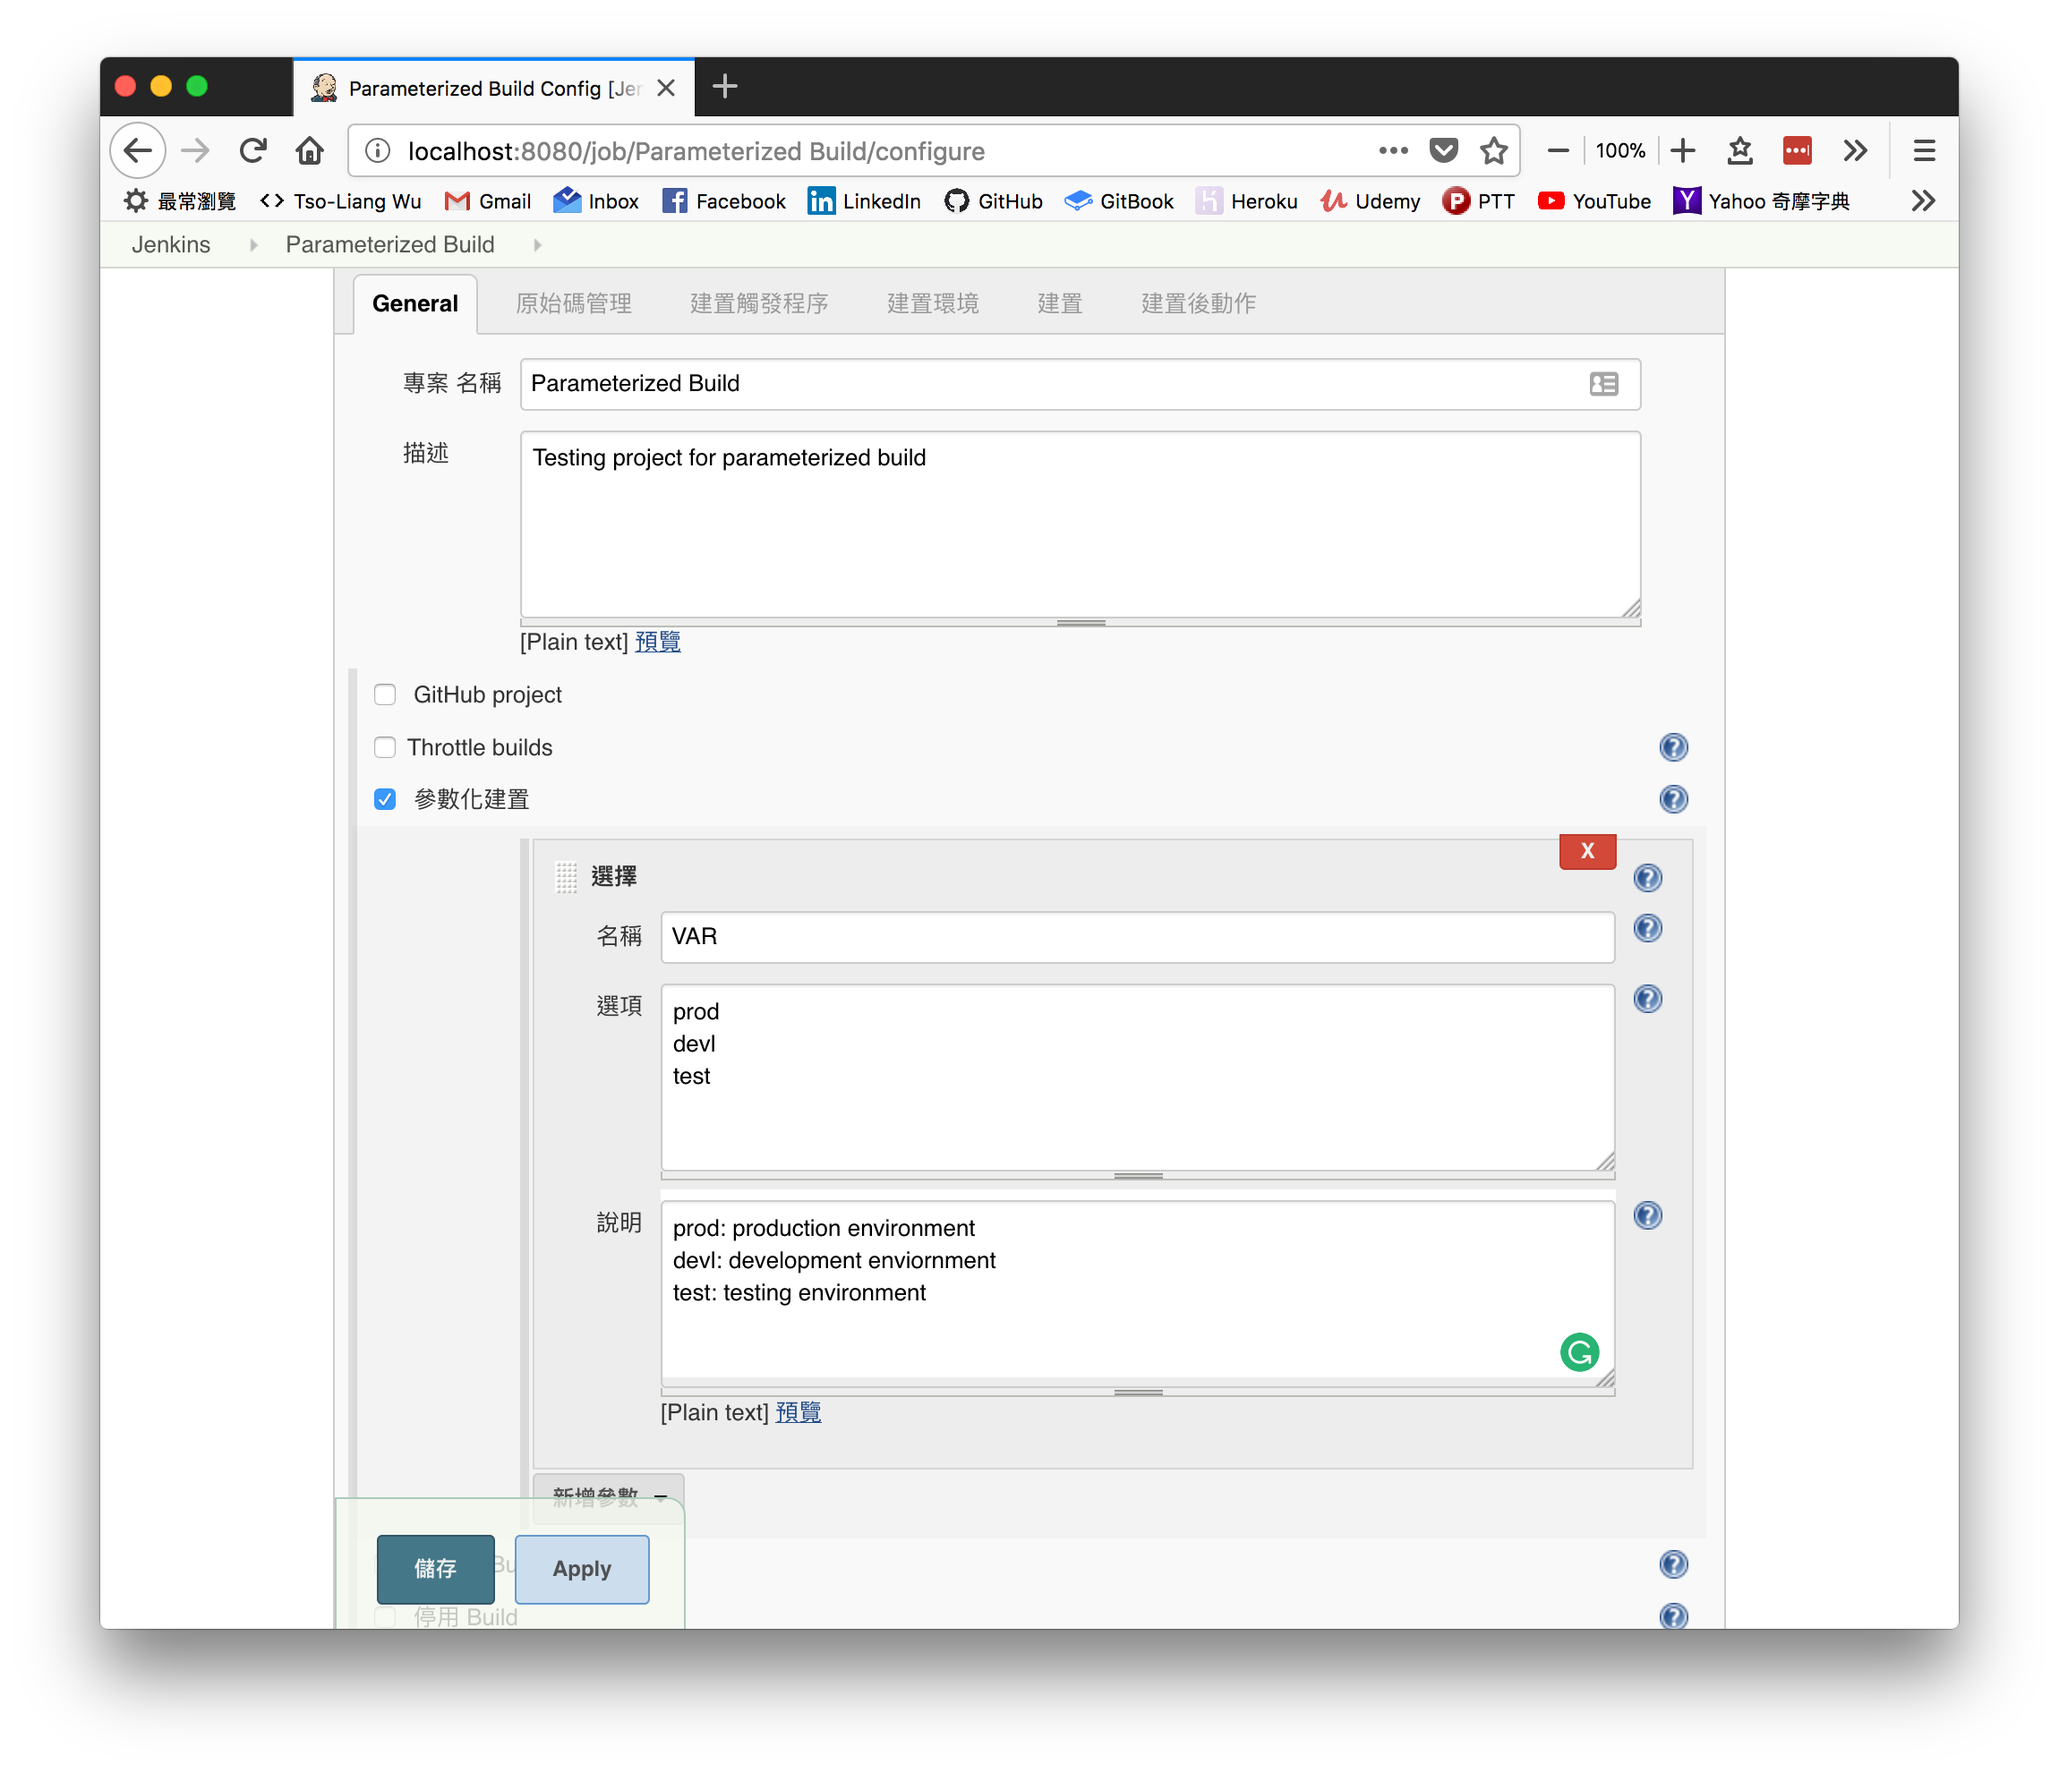
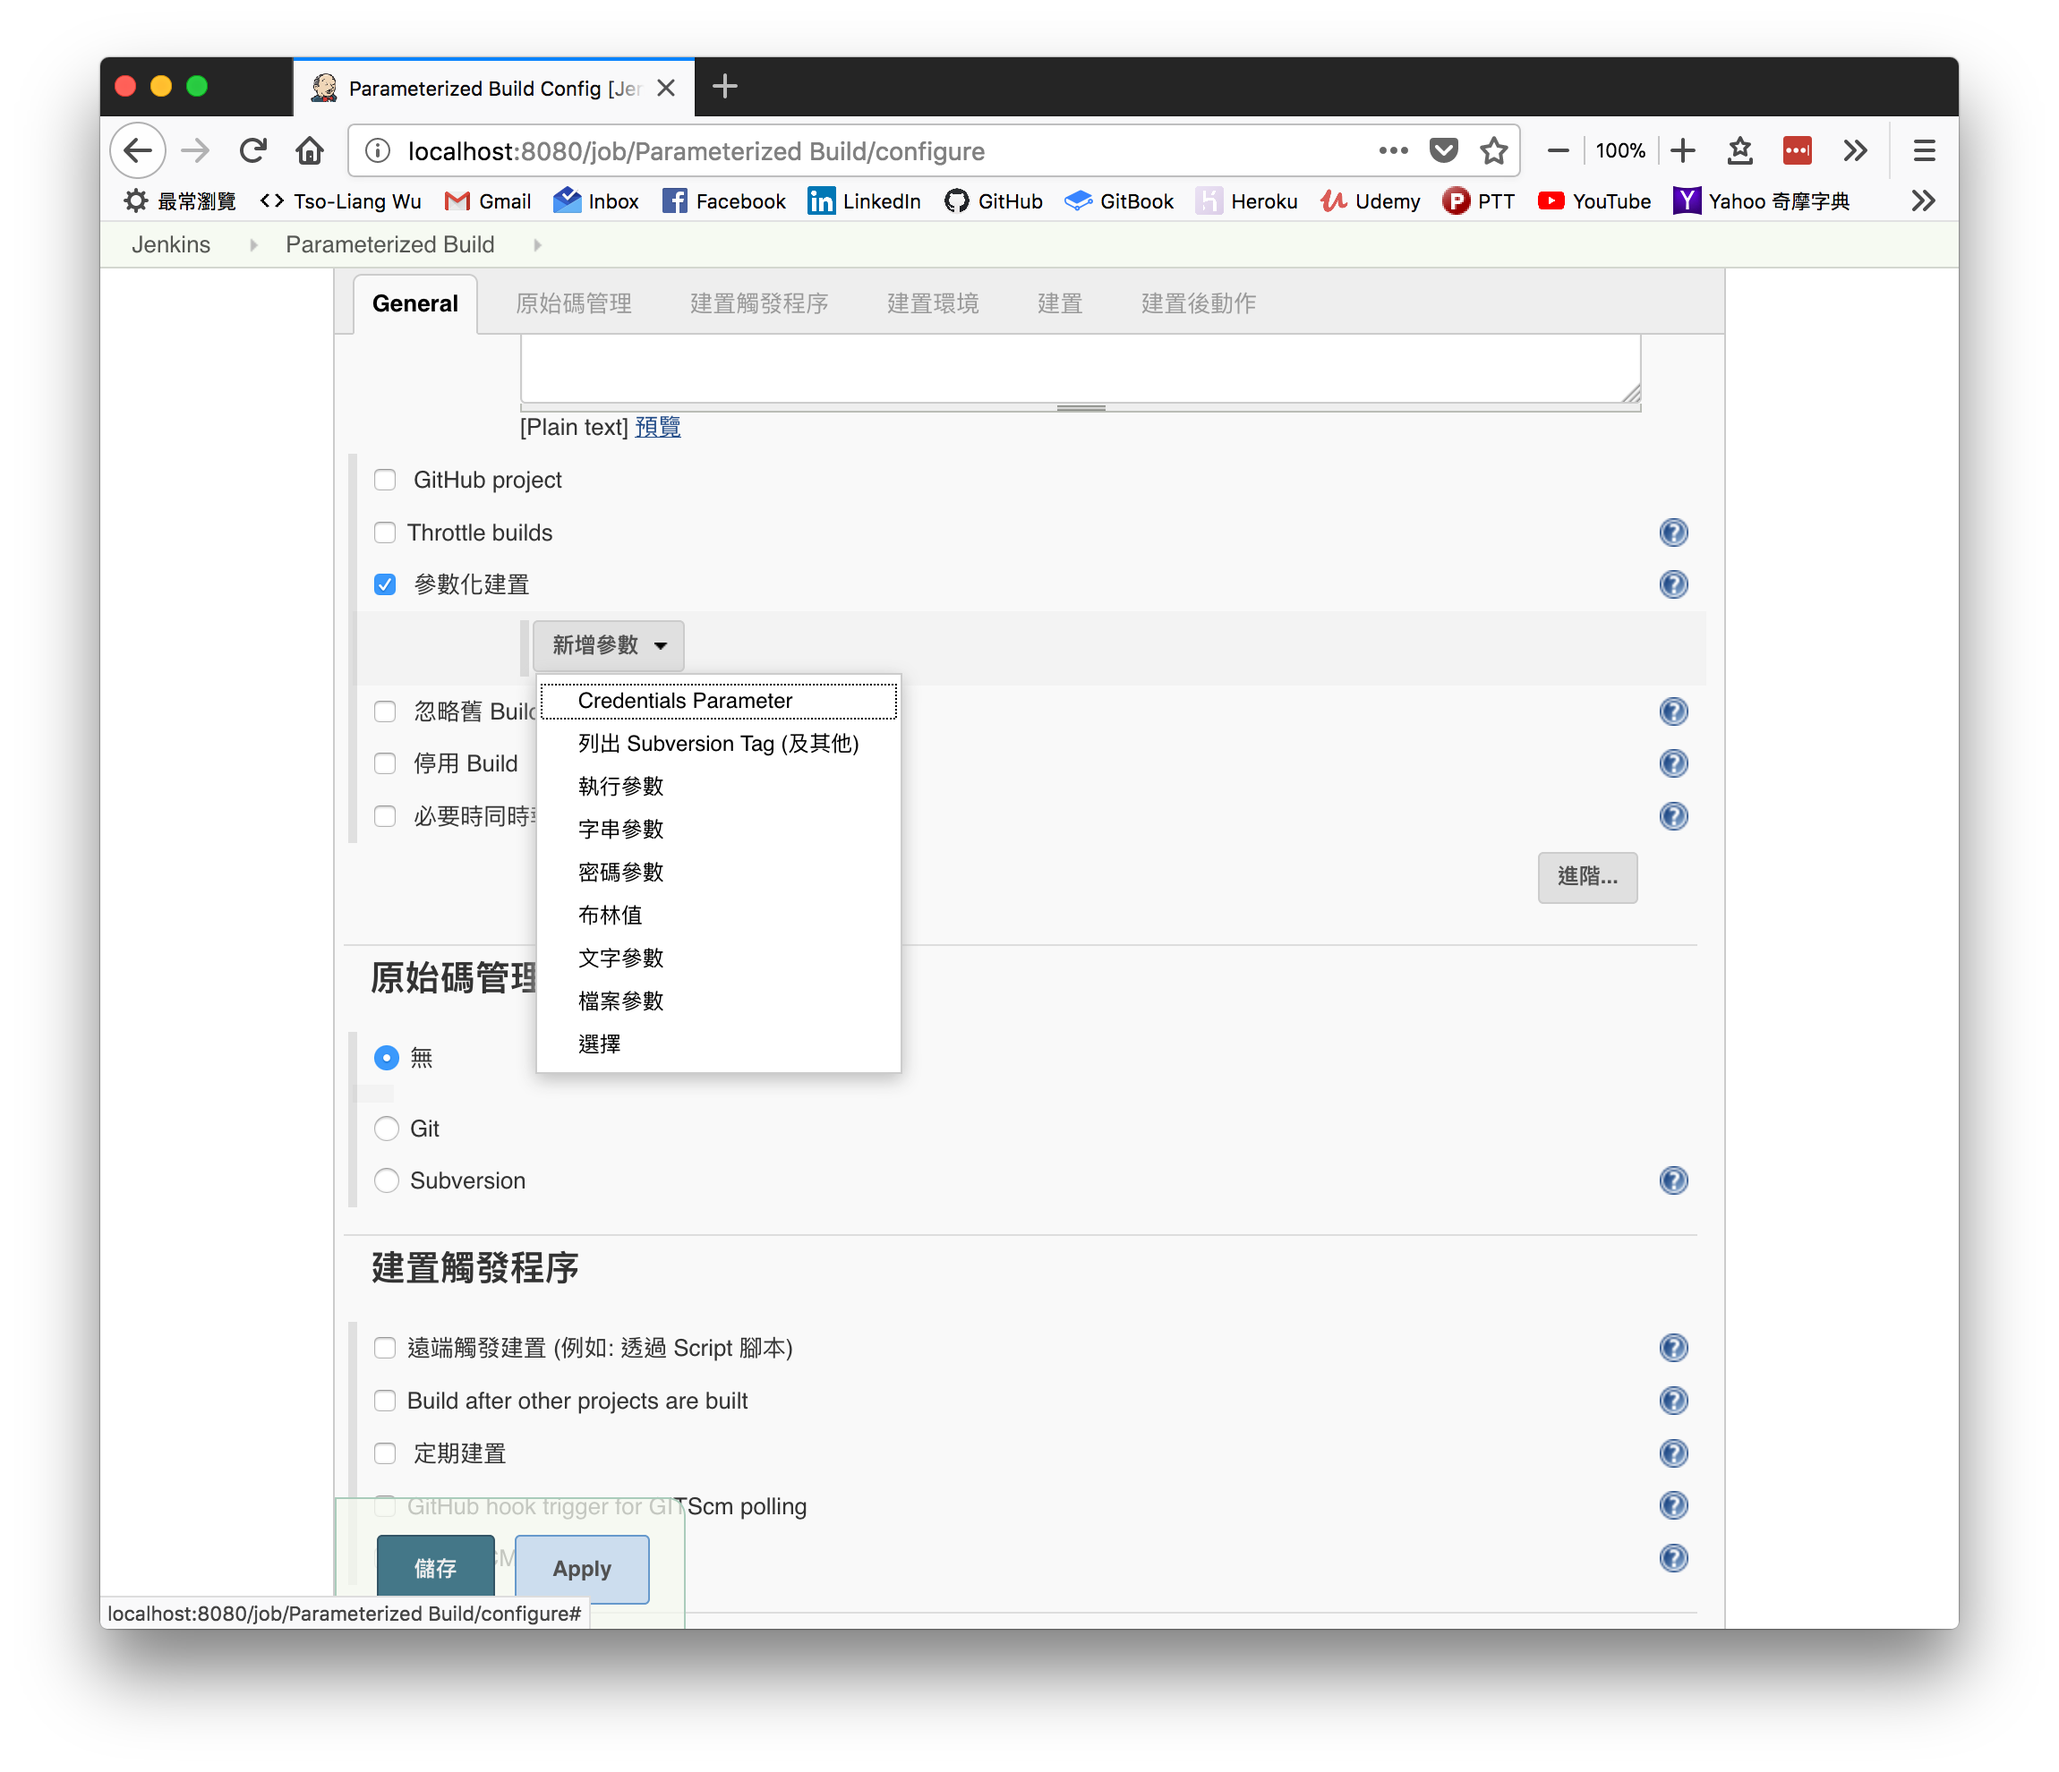
Add images/

diff --git a/jenkins/build_parameterized_job.md b/jenkins/build_parameterized_job.md
@@ -1,31 +1,41 @@
-# 使用參數建置專案
+# 參數化建置
 
-由於 Jenkins 可以替我們定時建置專案，但如果建置過程會產生建置產物 (artifact)，我們往往會在 Jenkins 的伺服器端產生大量名稱類似的產物，這對部署的人員會產生一定程度的困擾。因此，我們可以使用 Jenkins 的環境變數或是建置參數參與建置過程，甚至可以用來命名管理建置產物。
+即便是同一個專案，有時候我們也會希望可以傳遞一些不同的變數來當做該次的建置參數。這時候我們就可以利用 Jenkins 的參數化建置來幫我們增加彈性。
 
-#### 參數化建置專案
+#### 專案組態設定
 
-在 Jenkins 中，我們可以在每一次的專案建置之前提供開發人員不同的建置選項以便管理專案。舉例來說，如果我們的產品在正式上線前要先經過開發階段 (Dev) 的測試，若順利通過才可以部署到正式產品的伺服器上 (Prod)，我們可以在建置過程中加入一些客製化參數讓不同階段的產物有獨特的名字以便區分。
+建立一個新的 Free-Style 專案作為練習，任意命名完後進入專案組態。接著，在 **General** 的設定下勾選**參數化建置**的選項，如下圖所示，可以看到在這裡我們可以自由選擇各種不同的參數型態。
 
-回到 `ansible_lint` 的專案配置，在 `General` 的欄位下勾選 `This project is parameterized` 的選項並點選 `Add Parameter`：
+![](https://github.com/tsoliangwu0130/learn-ansible-and-jenkins-in-30-days/blob/master/images/jenkins-parameterized-build-01.png?raw=true)
 
-![parameterize_job_01](https://github.com/tsoliangwu0130/learn-ansible-and-jenkins-in-30-days/blob/master/images/parameterize_job_01.png?raw=true)
+無論選擇哪一種參數型態，Jenkins 在運作上都是將這些參數以環境參數的方式讓該次建置可以直接使用。由於使用各種不同參數在操作上沒有什麼太大的差異，這邊我就用**選擇**的參數型態來做為這次參數建置的示範：
 
-我們可以看到 Jenkins 提供非常多種參數化專案的方法，讀者可以依照需求選擇適合的選項。作為示範，選擇 `Choice Parameter` 的選項並配置如下：
+![](https://github.com/tsoliangwu0130/learn-ansible-and-jenkins-in-30-days/blob/master/images/jenkins-parameterized-build-02.png?raw=true)
 
-![parameterize_job_02](https://github.com/tsoliangwu0130/learn-ansible-and-jenkins-in-30-days/blob/master/images/parameterize_job_02.png?raw=true)
+稍微解釋一下每個欄位的用途：
 
-在 `Choices` 的選項中我們提供了 `Dev` 與 `Prod` 兩種不同的選項給建置人員選擇使用，但由於我們在配置的過程中還不知道到時候配置人員會選擇哪一個參數作為建置選項，所以我們可以將這個參數命名為 `STAGE`，並在接下來的建置過程中用 `$STAGE` 的方式操作這個參數。另外，同樣我們盡可能在所有配置的過程加入詳細的敘述，以免造成未來開發人員的困擾。
+1. 名稱：`VAR` 即為接下來在建置過程中我們要呼叫這個參數的參數名稱
+2. 選項：每一行代表一個選項的值，第一行為預設選項。
+3. 說明：對於參數選項的詳細描述。
 
-接著，在 `Build` 的欄位中稍微調整一下建置腳本如下：
+接著，到**建置**欄位新增建置步驟。這裡我們一樣選擇**執行 Shell** 的選項，並在**指令**欄位內新增：
 
-![parameterize_job_03](https://github.com/tsoliangwu0130/learn-ansible-and-jenkins-in-30-days/blob/master/images/parameterize_job_03.png?raw=true)
+```shell
+echo "Building Environment: $VAR"
+```
 
-我們現在將 Ansible-lint 的檢查結果儲存在一個純文字類型的檔案內，並將檔名根據我們建置時選擇的參數以及當前系統時間做命名分類。設定完成後儲存變更，我們可以看到現在建置專案的頁面已經改變如下：
+如同之前提到的，Jenkins 會將我們設定的參數以環境變數的方式作用在這次的建置作業中，所以在參數的使用上也相當直覺。完成後點擊**儲存**離開。
 
-![parameterize_job_04](https://github.com/tsoliangwu0130/learn-ansible-and-jenkins-in-30-days/blob/master/images/parameterize_job_04.png?raw=true)
+#### 建置結果
 
-由於專案的建置方式已經被參數化，所以我們必須在建置時提供一個參數給本專案使用。現在，讓我們試著用 `Prod` 作為參數建置專案。下拉式選單點開後，選擇 `Prod` 然後點選 `Build`。建置完成後，點選選單列的 `Workspace` 觀察 artifact 是否有正確被命名：
+回到專案建置頁面後，我們會看到原本的**馬上建置**按鈕現在變成 **Build with Parameters** 了：
 
-![parameterize_job_05](https://github.com/tsoliangwu0130/learn-ansible-and-jenkins-in-30-days/blob/master/images/parameterize_job_05.png?raw=true)
+![](https://github.com/tsoliangwu0130/learn-ansible-and-jenkins-in-30-days/blob/master/images/jenkins-parameterized-build-03.png?raw=true)
 
-我們可以看到 Jenkins 在專案工作目錄下根據我們選擇的參數及伺服器時間產生了該次專案的 artifact。所以，就算 Jenkins 會持續自動地幫我們重複整合原始碼，未來我們也可以大量地運用這個技巧來管理專案。
+點選 **Build with Parameters** 後，在下拉式選單中我們可以任意選擇這次建置作業的參數。接著，隨便選擇一個參數後點選**建置**：
+
+![](https://github.com/tsoliangwu0130/learn-ansible-and-jenkins-in-30-days/blob/master/images/jenkins-parameterized-build-04.png?raw=true)
+
+建置完成後，在 **Console Output** 的結果中就可以看到 Jenkins 成功地根據我們讓使用者傳入的參數進行建置：
+
+![](https://github.com/tsoliangwu0130/learn-ansible-and-jenkins-in-30-days/blob/master/images/jenkins-parameterized-build-04.png?raw=true)
